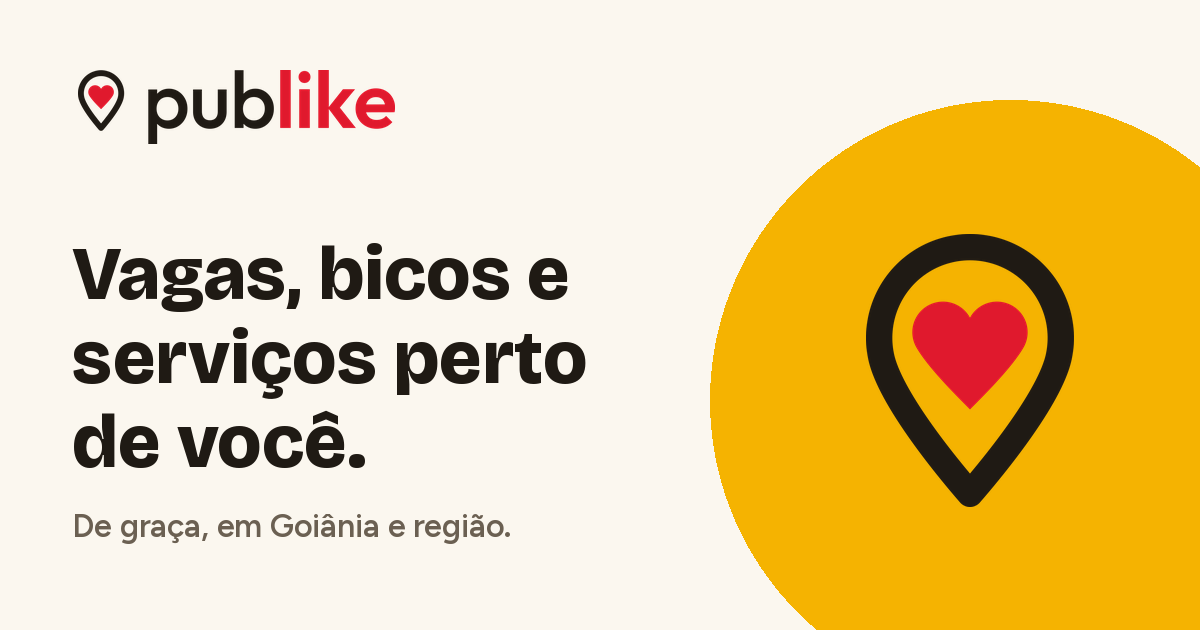
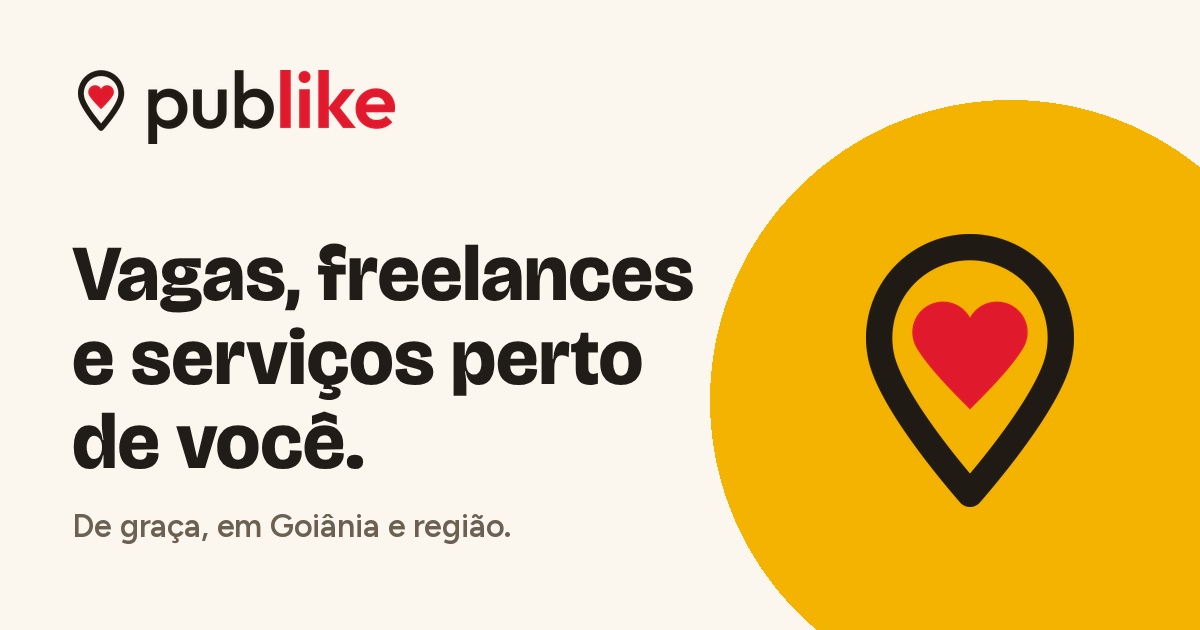
Troca "bico" por "freelance" em todo o site
Título, descrição, manifest, imagem de compartilhamento, selo do card,
tipo de contratação, Como funciona, currículo e textos da IA.

Claude-Session: https://claude.ai/code/session_01XhCbgBjF5nn2e5QWbTQumk

diff --git a/src/lib/ia/tarefas.ts b/src/lib/ia/tarefas.ts
@@ -52,7 +52,7 @@ function descreverAnuncio(a: AnuncioParaIA) {
 
 // ------------------------------------------------------------------ moderação
 
-const SISTEMA_MODERACAO = `Você é a moderação automática do Publike, um mural gratuito de vagas de emprego, bicos e serviços em Goiânia (GO), Brasil.
+const SISTEMA_MODERACAO = `Você é a moderação automática do Publike, um mural gratuito de vagas de emprego, trabalhos freelance e serviços em Goiânia (GO), Brasil.
 
 Leia o anúncio e decida se ele pode continuar no ar ("aprovar") ou se deve sair do ar até uma pessoa da equipe olhar ("reter").
 
@@ -186,7 +186,7 @@ export async function revisarAvaliacao(a: TextoDeAvaliacao, modeloEscolhido: str
 
 // ------------------------------------------------------------------ melhorar texto
 
-const SISTEMA_TEXTO = `Você ajuda pessoas de Goiânia a escrever anúncios para o Publike, um mural gratuito de vagas, bicos e serviços.
+const SISTEMA_TEXTO = `Você ajuda pessoas de Goiânia a escrever anúncios para o Publike, um mural gratuito de vagas, freelances e serviços.
 
 Reescreva o título e a descrição em português do Brasil claro, direto e simpático, como quem fala com um vizinho.
 - Mantenha todos os fatos: valores, horários, requisitos, local, quantidade de vagas.
@@ -229,7 +229,7 @@ export async function sugerirTexto(a: AnuncioParaIA, modelo: string): Promise<{ 
 
 // ------------------------------------------------------------------ resumo do painel
 
-const SISTEMA_RESUMO = `Você é analista do Publike, um mural gratuito de vagas, bicos e serviços em Goiânia (GO).
+const SISTEMA_RESUMO = `Você é analista do Publike, um mural gratuito de vagas, freelances e serviços em Goiânia (GO).
 Com os números do período, escreva para o dono do site um resumo curto em português do Brasil:
 - até 8 tópicos começando com "- ";
 - primeiro o que aconteceu (cadastros, anúncios, curtidas, matches), comparando com o período anterior quando houver;

diff --git a/src/app/como-funciona/page.tsx b/src/app/como-funciona/page.tsx
@@ -11,7 +11,7 @@ export const metadata: Metadata = {
 };
 
 const CONTRATA = [
-  "Publique a vaga: com carteira, temporária, diária ou bico (um reboco, uma faxina, um conserto).",
+  "Publique a vaga: com carteira, temporária, diária ou freelance (um reboco, uma faxina, um conserto).",
   "Ou procure um profissional: pedreiro, diarista, eletricista… Veja fotos dos trabalhos e o preço, e peça para contratar.",
   "Diga o bairro e marque a região no mapa: quem mora perto vê primeiro.",
   "Veja quem curtiu a vaga e o que cada pessoa faz. Curta de volta quem combina com você.",
@@ -19,7 +19,7 @@ const CONTRATA = [
 ];
 
 const TRABALHA = [
-  "Veja vagas e bicos perto de você, no mapa ou em lista. Curta o que combina.",
+  "Veja vagas e freelances perto de você, no mapa ou em lista. Curta o que combina.",
   "Vai atrás de vaga com carteira ou estágio? Preencha “Meu currículo” uma vez: quem anunciou a vaga que você curtiu vê junto com seu perfil.",
   "Oferece serviços? Monte sua vitrine em “Meus serviços”: o que você faz, o preço, fotos e onde atende.",
   "Quando alguém quiser contratar você, chega um aviso. Aceitou, deu match: o WhatsApp aparece no painel.",
@@ -81,7 +81,7 @@ export default function ComoFunciona() {
         <Container className="py-10 sm:py-14">
           <h1 className="max-w-3xl text-h1 sm:text-display">Quem precisa publica. Quem faz curte.</h1>
           <p className="mt-4 max-w-2xl text-body-lg text-ink-muted">
-            O Publike é um mural de oportunidades de Goiânia e região: vagas com carteira, diárias, bicos e serviços,
+            O Publike é um mural de oportunidades de Goiânia e região: vagas com carteira, diárias, freelances e serviços,
             organizados por bairro e distância. De graça.
           </p>
         </Container>

diff --git a/src/lib/constantes.ts b/src/lib/constantes.ts
@@ -197,7 +197,7 @@ export const REGIMES: Record<Regime, { nome: string; selo: string; ajuda: string
   clt: { nome: "Com carteira (CLT)", selo: "CLT", ajuda: "Emprego com carteira assinada" },
   temporario: { nome: "Temporário", selo: "Temporário", ajuda: "Contrato por um período" },
   diaria: { nome: "Diária", selo: "Diária", ajuda: "Paga por dia de trabalho" },
-  freelance: { nome: "Bico / freelance", selo: "Bico", ajuda: "Trabalho pontual, por tarefa" },
+  freelance: { nome: "Freelance", selo: "Freelance", ajuda: "Trabalho pontual, por tarefa ou projeto" },
   estagio: { nome: "Estágio", selo: "Estágio", ajuda: "Para estudantes" },
   pj: { nome: "PJ / MEI", selo: "PJ", ajuda: "Contrato com CNPJ ou MEI" },
   outro: { nome: "Outro", selo: "Outro", ajuda: "Outra forma de contratação" },

diff --git a/src/app/manifest.ts b/src/app/manifest.ts
@@ -3,9 +3,9 @@ import type { MetadataRoute } from "next";
 // Permite instalar o Publike na tela inicial do celular (PWA).
 export default function manifest(): MetadataRoute.Manifest {
   return {
-    name: "Publike · Vagas, bicos e serviços perto de você",
+    name: "Publike · Vagas, freelances e serviços perto de você",
     short_name: "Publike",
-    description: "Vagas, bicos e profissionais do bairro em Goiânia e região. Curtiu, deu match, vocês conversam. De graça.",
+    description: "Vagas, freelances e profissionais do bairro em Goiânia e região. Curtiu, deu match, vocês conversam. De graça.",
     start_url: "/",
     display: "standalone",
     background_color: "#fbf7ef",

diff --git a/src/app/layout.tsx b/src/app/layout.tsx
@@ -23,11 +23,11 @@ const bricolage = localFont({
 export const metadata: Metadata = {
   metadataBase: new URL(SITE_URL),
   title: {
-    default: "Publike · Vagas, bicos e serviços perto de você",
+    default: "Publike · Vagas, freelances e serviços perto de você",
     template: "%s · Publike",
   },
   description:
-    "Vagas com carteira, diárias, bicos e profissionais do bairro em Goiânia e região. Curtiu, deu match, vocês conversam. De graça.",
+    "Vagas com carteira, diárias, freelances e profissionais do bairro em Goiânia e região. Curtiu, deu match, vocês conversam. De graça.",
   applicationName: "Publike",
   openGraph: {
     type: "website",

diff --git a/src/lib/formato.ts b/src/lib/formato.ts
@@ -84,7 +84,7 @@ export function formatarMesAno(iso: string) {
   return new Intl.DateTimeFormat("pt-BR", { month: "long", year: "numeric", timeZone: FUSO }).format(new Date(iso));
 }
 
-/** Selo do card: CLT, Diária, Bico… ou Serviço. */
+/** Selo do card: CLT, Diária, Freelance… ou Serviço. */
 export function rotuloModalidade(tipo: string, regime: string | null) {
   if (tipo === "vaga" && regime && regime in REGIMES) return REGIMES[regime as Regime].selo;
   return TIPOS_ANUNCIO[(tipo as TipoAnuncio) in TIPOS_ANUNCIO ? (tipo as TipoAnuncio) : "servico"].selo;

diff --git a/src/components/form-curriculo.tsx b/src/components/form-curriculo.tsx
@@ -245,7 +245,7 @@ export function FormCurriculo({
 
       <Secao
         titulo="Onde você já trabalhou"
-        descricao="Do mais recente para o mais antigo. Bico e trabalho sem carteira também contam. Primeiro emprego? Pode deixar vazio e contar dos cursos."
+        descricao="Do mais recente para o mais antigo. Freelance e trabalho sem carteira também contam. Primeiro emprego? Pode deixar vazio e contar dos cursos."
       >
         {experiencias.map((x, i) => {
           const id = (c: string) => `exp-${x.chave}-${c}`;

diff --git a/src/components/form-anuncio.tsx b/src/components/form-anuncio.tsx
@@ -148,7 +148,7 @@ export function FormAnuncio({
                   <Check aria-hidden className="size-4" />
                 </span>
                 <span className="block text-body-sm text-ink-muted">
-                  Contratar alguém: com carteira, temporário, diária ou bico (um pedreiro para um reboco, uma faxina…).
+                  Contratar alguém: com carteira, temporário, diária ou freelance (um pedreiro para um reboco, uma faxina…).
                 </span>
               </span>
             </div>

diff --git a/src/components/inicio.tsx b/src/components/inicio.tsx
@@ -14,7 +14,7 @@ export function HeroInicio() {
       </div>
       <h1 className="mt-3 max-w-3xl text-h1 sm:text-display">Trabalho perto de você.</h1>
       <p className="mt-2 max-w-2xl text-body text-ink-muted sm:mt-3 sm:text-body-lg">
-        Vagas com carteira, diárias, bicos e profissionais do bairro.
+        Vagas com carteira, diárias, freelances e profissionais do bairro.
         <span className="hidden sm:inline"> Curtiu, deu match, vocês conversam.</span>
       </p>
     </>

diff --git a/src/components/navegacao.tsx b/src/components/navegacao.tsx
@@ -21,7 +21,7 @@ export function Rodape() {
         <div className="max-w-sm">
           <Logo altura={28} />
           <p className="mt-3 text-body-sm text-ink-muted">
-            Vagas, bicos e serviços perto de você. De graça, em Goiânia e região.
+            Vagas, freelances e serviços perto de você. De graça, em Goiânia e região.
           </p>
           <p className="mt-3 font-display text-h3">Publicou, curtiu, trabalhou.</p>
         </div>

diff --git a/README.md b/README.md
@@ -1,6 +1,6 @@
 # Publike
 
-**Vagas, bicos e serviços perto de você. De graça.**
+**Vagas, freelances e serviços perto de você. De graça.**
 
 Site do Publike, um mural de oportunidades de Goiânia e região: quem precisa publica, quem faz curte, e quando os dois se curtem (match) o WhatsApp aparece.
 
@@ -11,7 +11,7 @@ Feito com Next.js 16, Supabase (Postgres com PostGIS, login, fotos e tempo real)
 ## O que já funciona
 
 - **Busca por perto**: mapa e lista, filtros (vaga ou serviço, categoria, contratação, distância, ordem) e "Perto de mim".
-- **Publicar** vaga (CLT, temporário, diária, bico, estágio, PJ) ou serviço, com a região marcada no mapa. O endereço exato nunca é salvo: o ponto vira uma área de uns 500 m.
+- **Publicar** vaga (CLT, temporário, diária, freelance, estágio, PJ) ou serviço, com a região marcada no mapa. O endereço exato nunca é salvo: o ponto vira uma área de uns 500 m.
 - **Curtir e dar match**: quem trabalha curte (com mensagem opcional), quem publicou curte de volta, e o WhatsApp dos dois aparece só aí.
 - **Desfazer match**: qualquer lado desiste com motivo e justificativa obrigatórios, e responde se toparia negociar em outro momento. O contato some para os dois; a outra pessoa vê o motivo, a equipe vê a justificativa na ficha da pessoa (e recebe aviso quando o motivo é comportamento). "Sim" deixa curtir e dar match de novo; "Não" bloqueia os dois de curtir os anúncios um do outro.
 - **Painel**: meus anúncios (pausar, encerrar, renovar, editar, excluir), quem curtiu, minhas curtidas e matches, mais o sino de avisos em tempo real.
